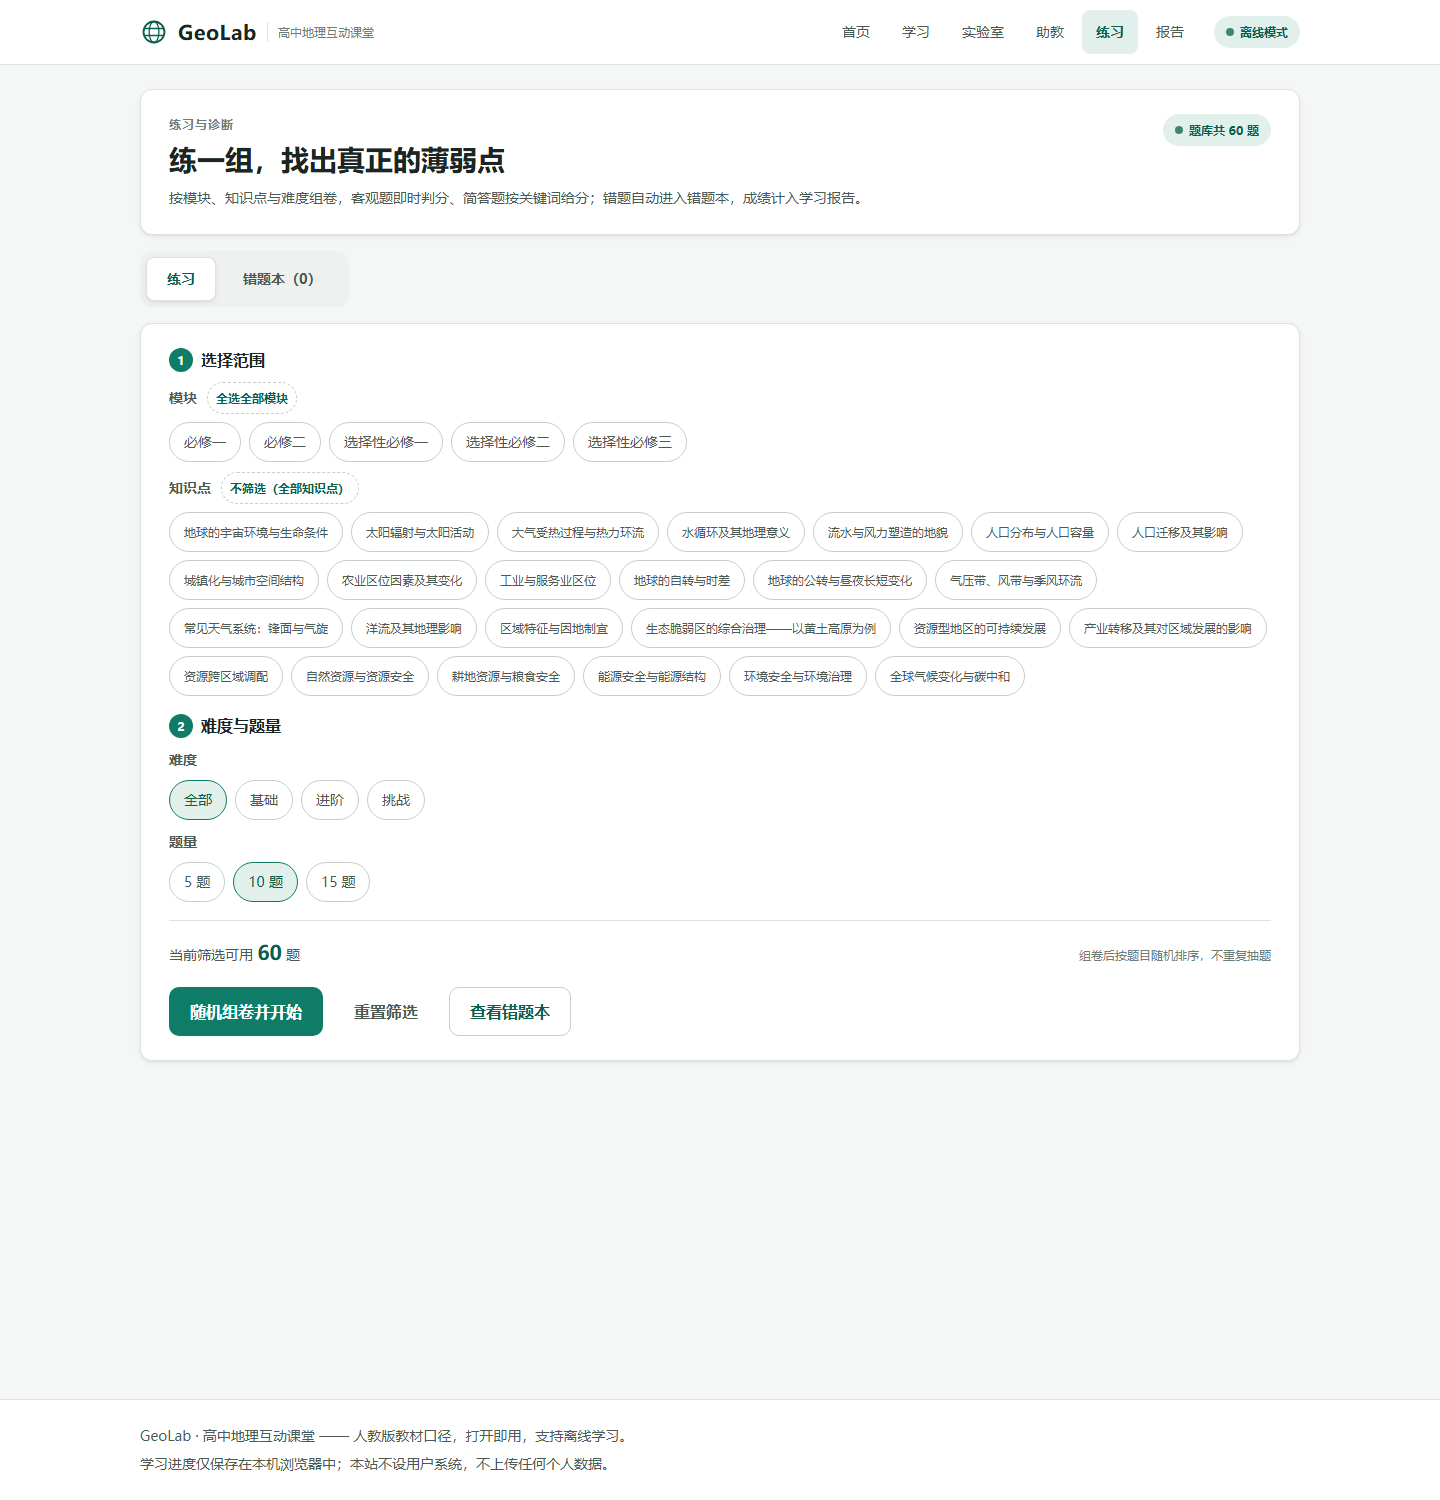
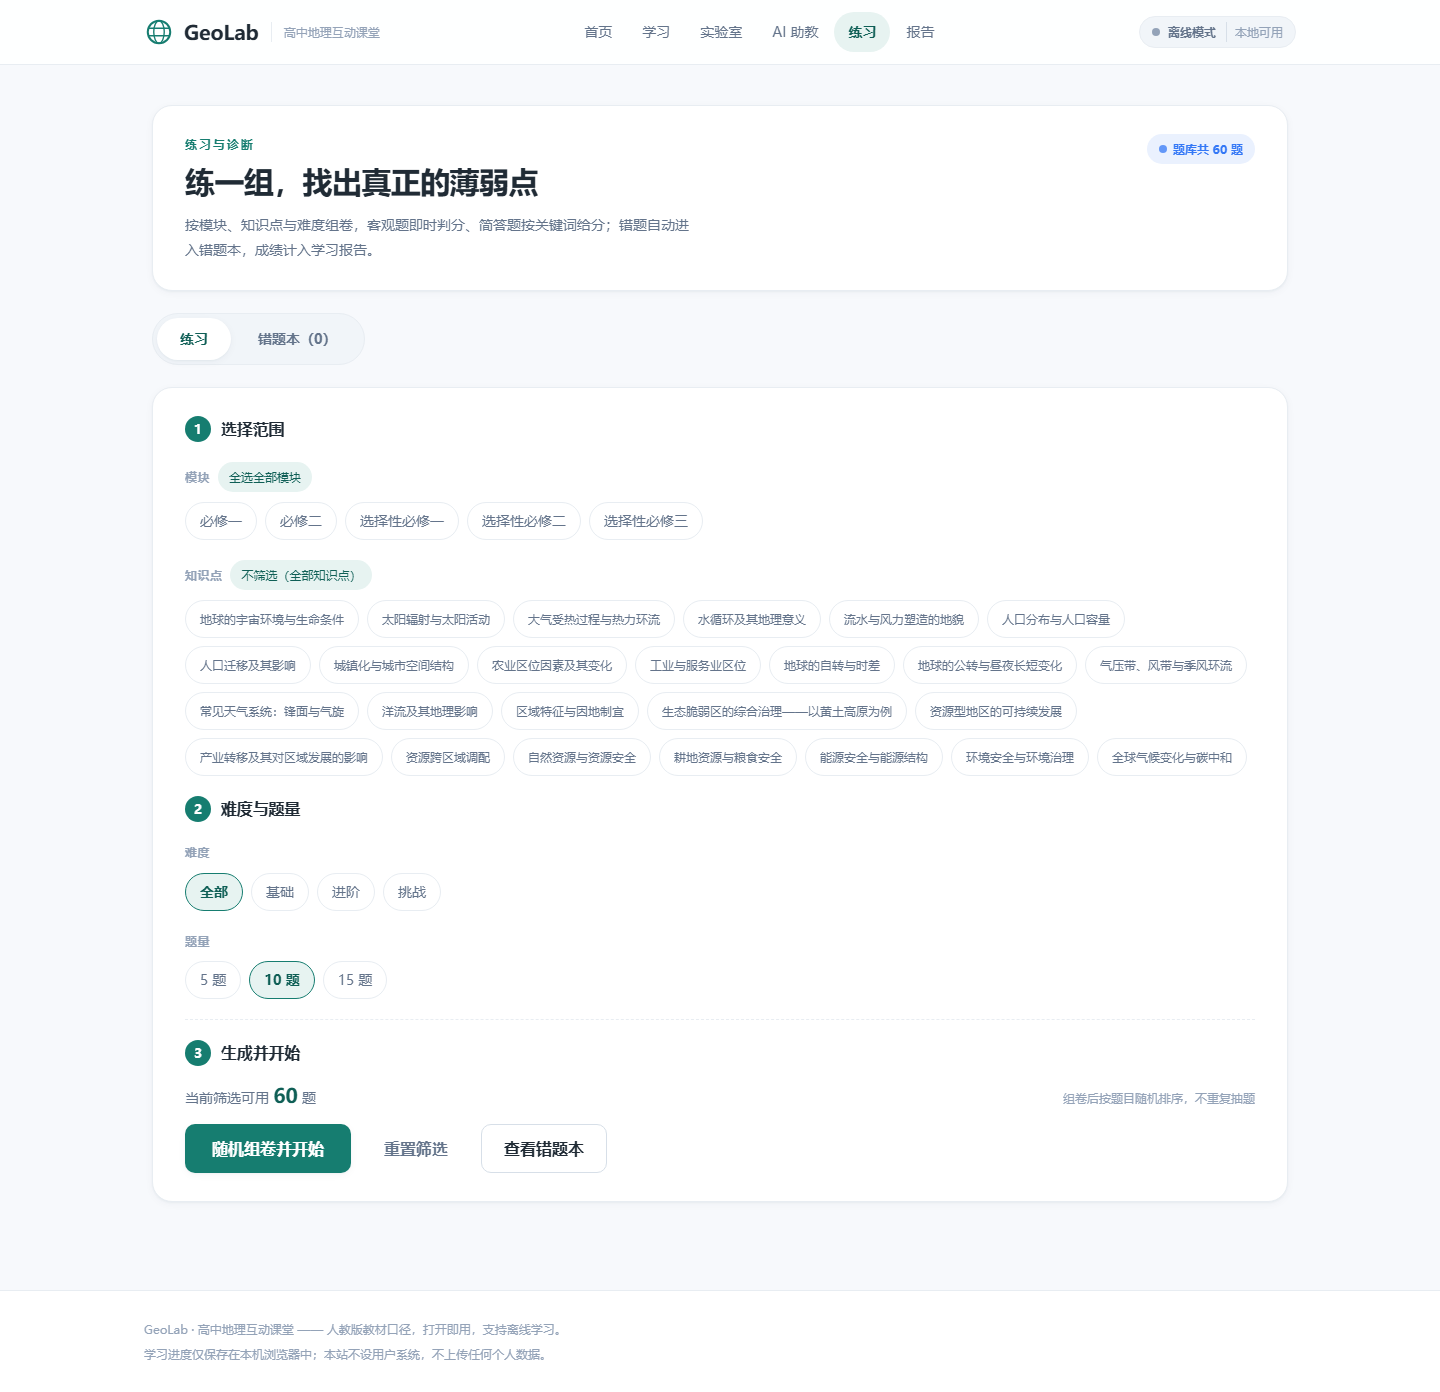
fix(model): 恢复 teleagent 本机模式，补充一键启动与 UI 2.0 截图
- server.mjs：恢复 teleagent 模式（HMAC 签名、会话复用、失败自动降级 offline）
- start-server.ps1：一键启动本机 TeleAgent 模型模式（自动刷新本机会话密钥）
- README：补充本机模型接入方式与三种模式说明
- docs/screenshots：更新为 UI 2.0 视觉截图

diff --git a/README.md b/README.md
@@ -10,7 +10,19 @@
 
 双击 `index.html` 即可。浏览知识卡、做互动演示、练习诊断、查看学习报告全部可用；AI 助教进入「离线演示模式」，用内置知识库按关键词回答，不联网。
 
-### 方式 B：接入模型（OpenAI 兼容 API）
+### 方式 B：接入本机 TeleAgent 模型（本机、无需 API Key）
+
+前提：本机已安装并运行 **TeleAgent 桌面版**（网站通过它的本地接口调用模型），且存在接管工具目录 `D:\DSH-Workspaces\teleagent-bridge`。
+
+在项目目录执行：
+
+```powershell
+powershell -NoProfile -ExecutionPolicy Bypass -File .\start-server.ps1
+```
+
+脚本会确认 TeleAgent 后端在运行 → 自动获取本次运行期的本地会话密钥 → 以 `teleagent` 模式启动服务。浏览器打开 <http://127.0.0.1:8787> 即可真实对话（使用 TeleAgent 的账号与模型）。TeleAgent 重启后密钥会变化，重跑一次脚本即可。
+
+### 方式 C：接入模型（OpenAI 兼容 API）
 
 ```powershell
 $env:GEO_MODEL_MODE = 'openai'
@@ -48,14 +60,15 @@ node server.mjs        # 或 PORT=8080 node server.mjs
 
 - `GET /api/health` → `{ ok, mode, model }`
 - `POST /api/chat`：请求 `{ messages: [{role, content}], sessionId? }`；响应 `text/event-stream`，逐条 `data: {"delta":"..."}`，结束 `data: [DONE]`，出错 `data: {"error":"..."}`
-- 两种模式由 `GEO_MODEL_MODE` 切换：
+- 三种模式由 `GEO_MODEL_MODE` 切换：
 
 | 模式 | 说明 | 必要变量 |
 | --- | --- | --- |
 | `offline`（默认） | 不联网，基于 `data/knowledge.js` 关键词匹配讲解/出题/批改，逐字流式输出 | 无 |
 | `openai` | OpenAI 兼容 Chat Completions 流式转发 | `OPENAI_API_KEY`、`OPENAI_MODEL`、可选 `OPENAI_BASE_URL` |
+| `teleagent` | 调用本机 TeleAgent 桌面版本地后端（HMAC 签名），失败自动降级 offline | `TELEAGENT_KEY_FILE` 或 `TELEAGENT_SESSION_KEY`，可选 `TELEAGENT_MODEL`（默认 `NewApi/chat-pro`） |
 
-两种模式的助教人设统一由服务端注入：人教版口径、先结论后推理、判读用「以温定带、以水定型」、出题必给解析、拒答与地理无关的请求、中国版图表述规范。想接其他模型，只需在 `server.mjs` 的 `streamOpenAI` 处适配新的 API 形态。
+三种模式的助教人设统一由服务端注入：人教版口径、先结论后推理、判读用「以温定带、以水定型」、出题必给解析、拒答与地理无关的请求、中国版图表述规范。
 
 ## 目录结构
 
